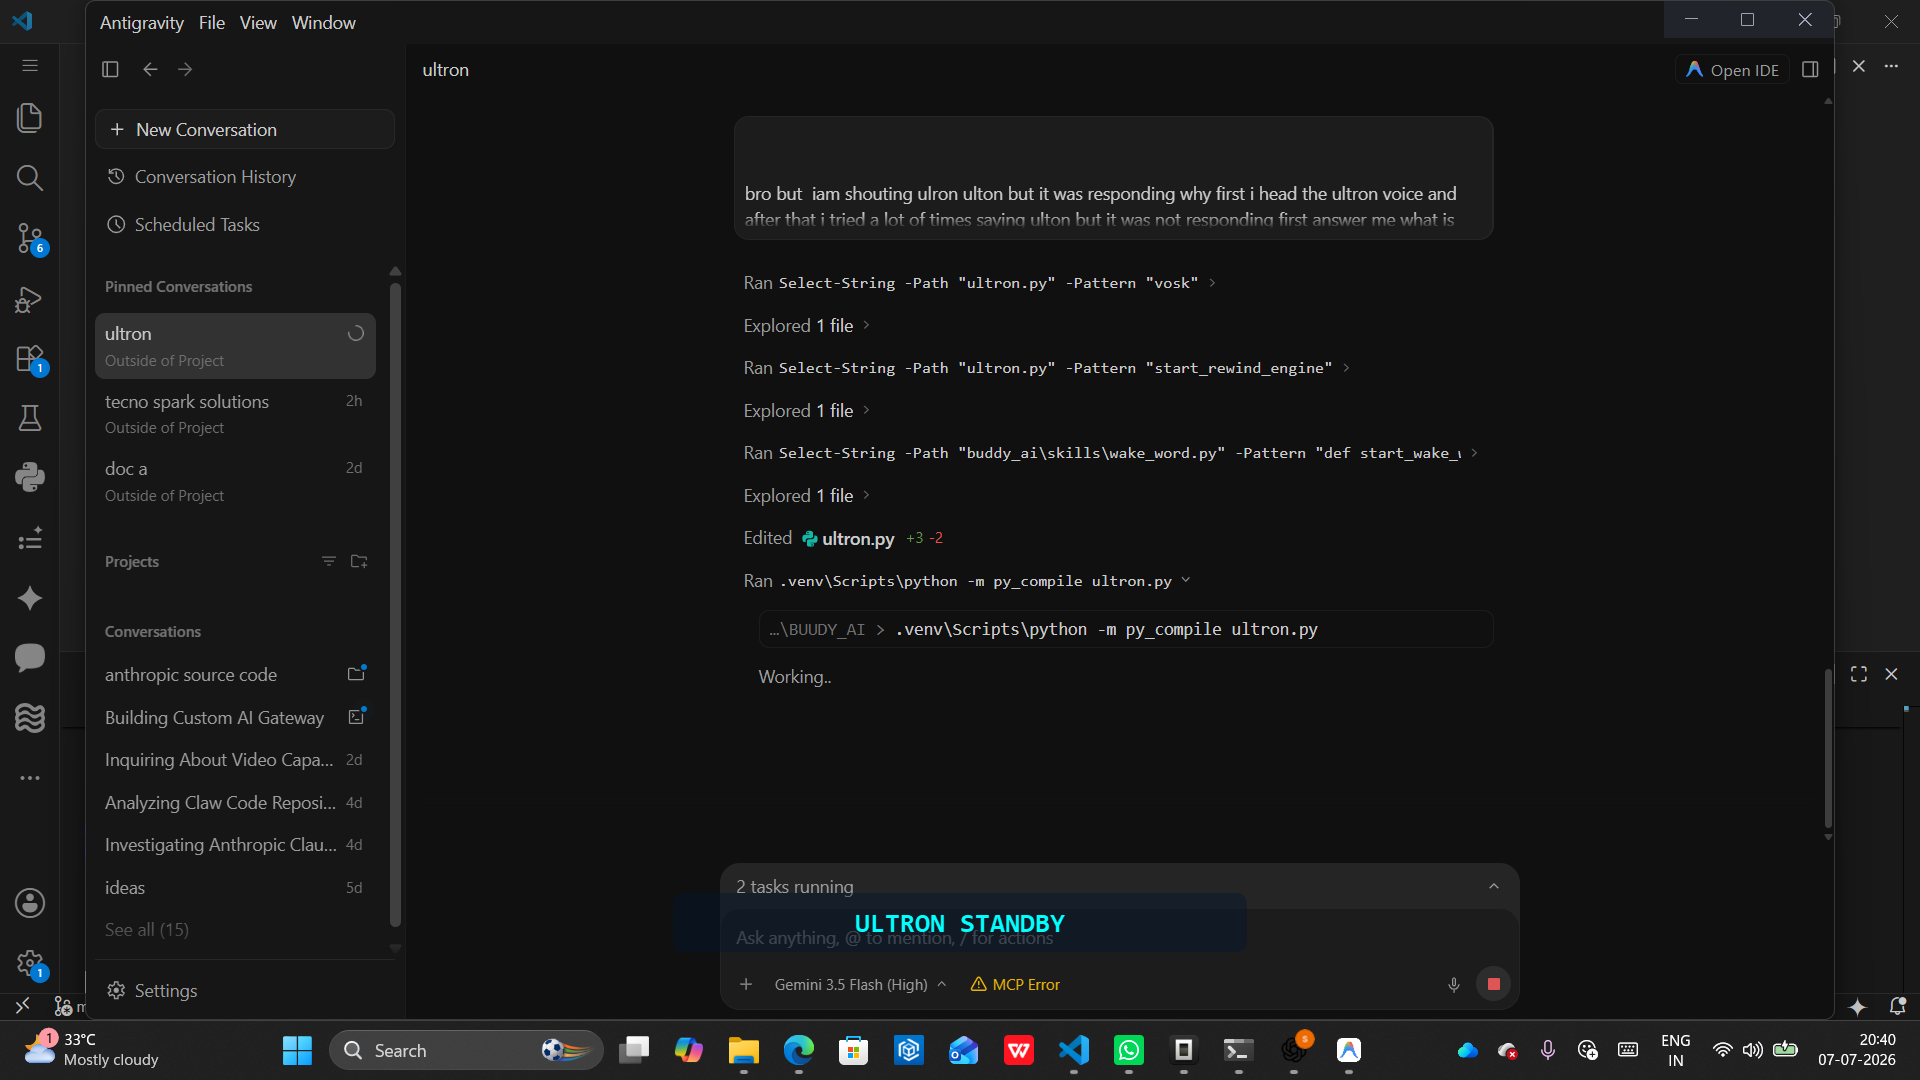
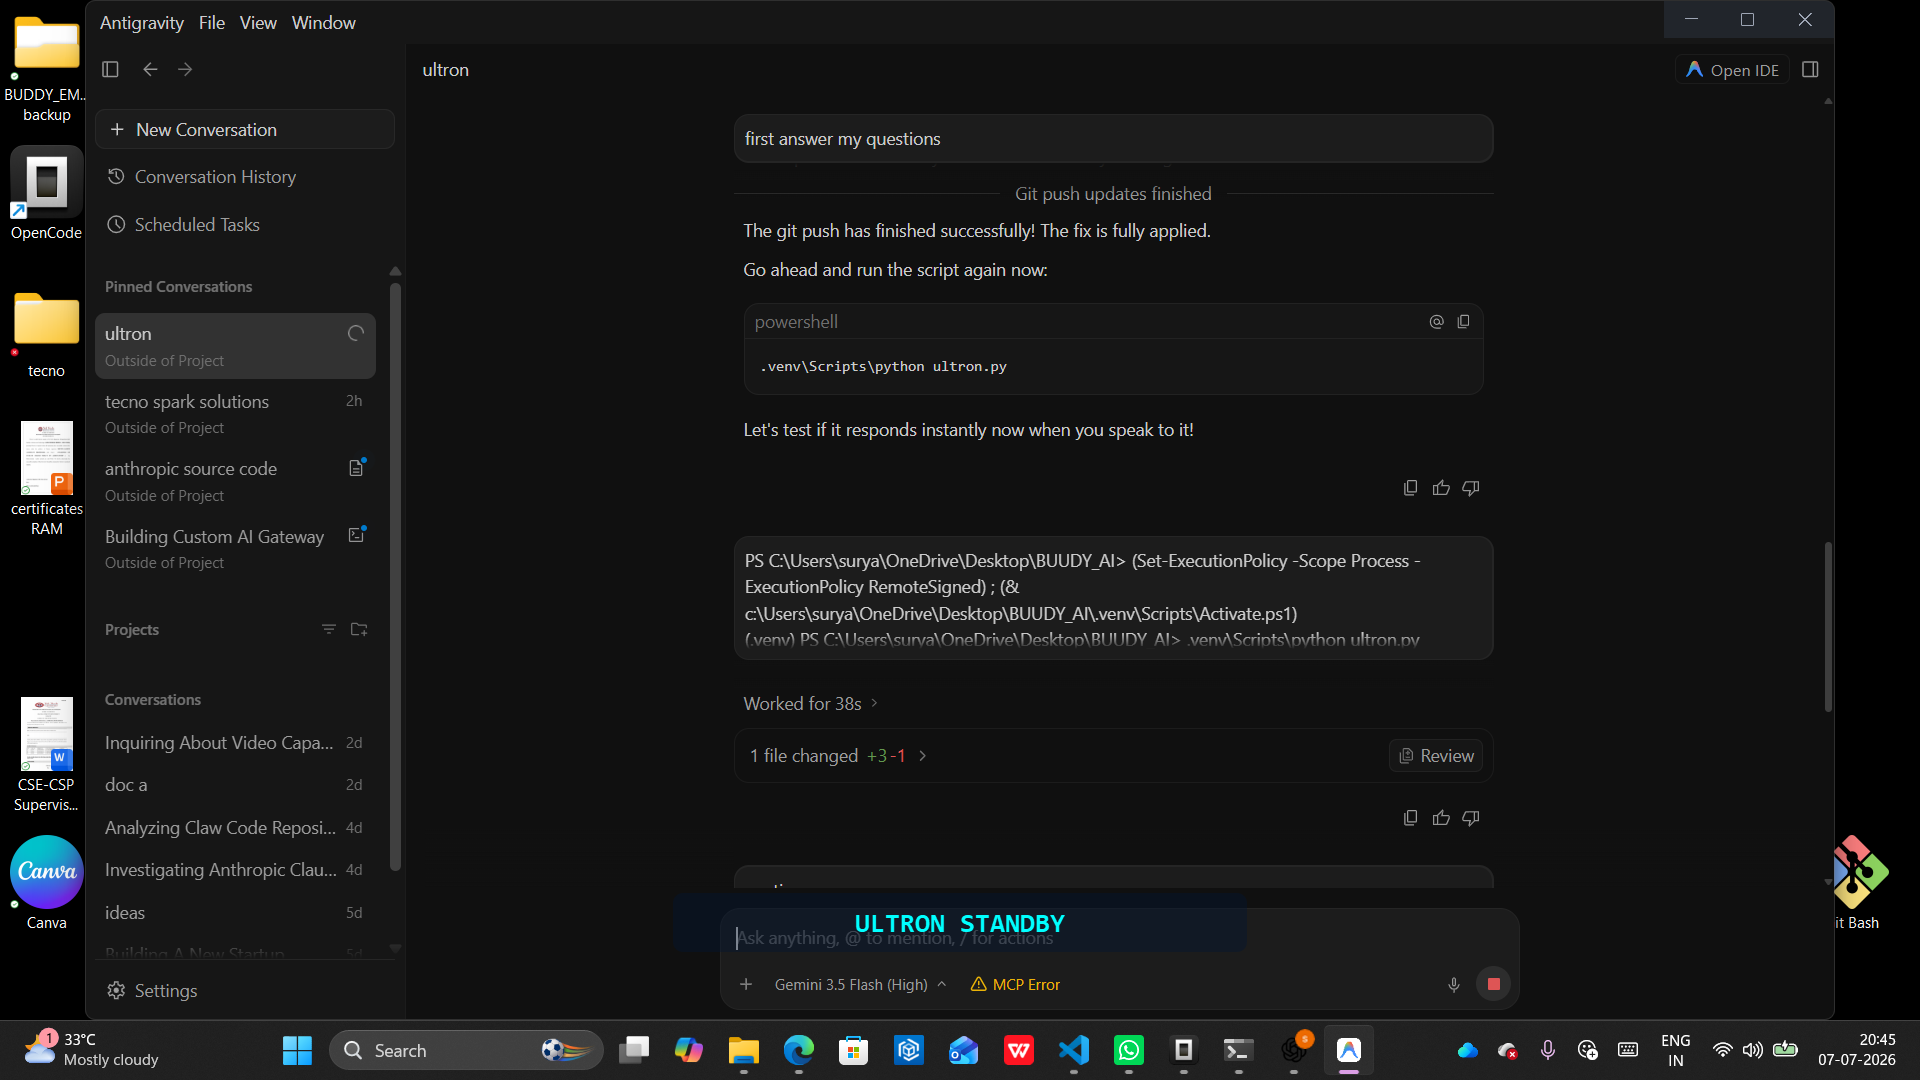
🎙️ Optimization: Boost Vosk wake-word sensitivity by adding target keyword vocabulary constraint and debug print

diff --git a/ultron.py b/ultron.py
@@ -140,7 +140,8 @@ def speak(text):
 def listen():
     global stop_speaking
     print("\n[Listening 24/7 for 'Ultron' or 'Stop'...] ")
-    recognizer = vosk.KaldiRecognizer(vosk_model, 16000)
+    # Optimization: constrain vocabulary to only target keywords to boost sensitivity and accuracy
+    recognizer = vosk.KaldiRecognizer(vosk_model, 16000, '["ultron", "stop", "[unk]"]')
     
     wake_word_detected = False
     
@@ -159,6 +160,7 @@ def listen():
                 text = result.get("text", "")
                 
                 if text:
+                    print(f"[Auditory System] Heard: '{text}'")
                     # Check for "Stop" interrupt
                     if not stop_speaking and pygame.mixer.get_init() and pygame.mixer.music.get_busy():
                         if "stop" in text: